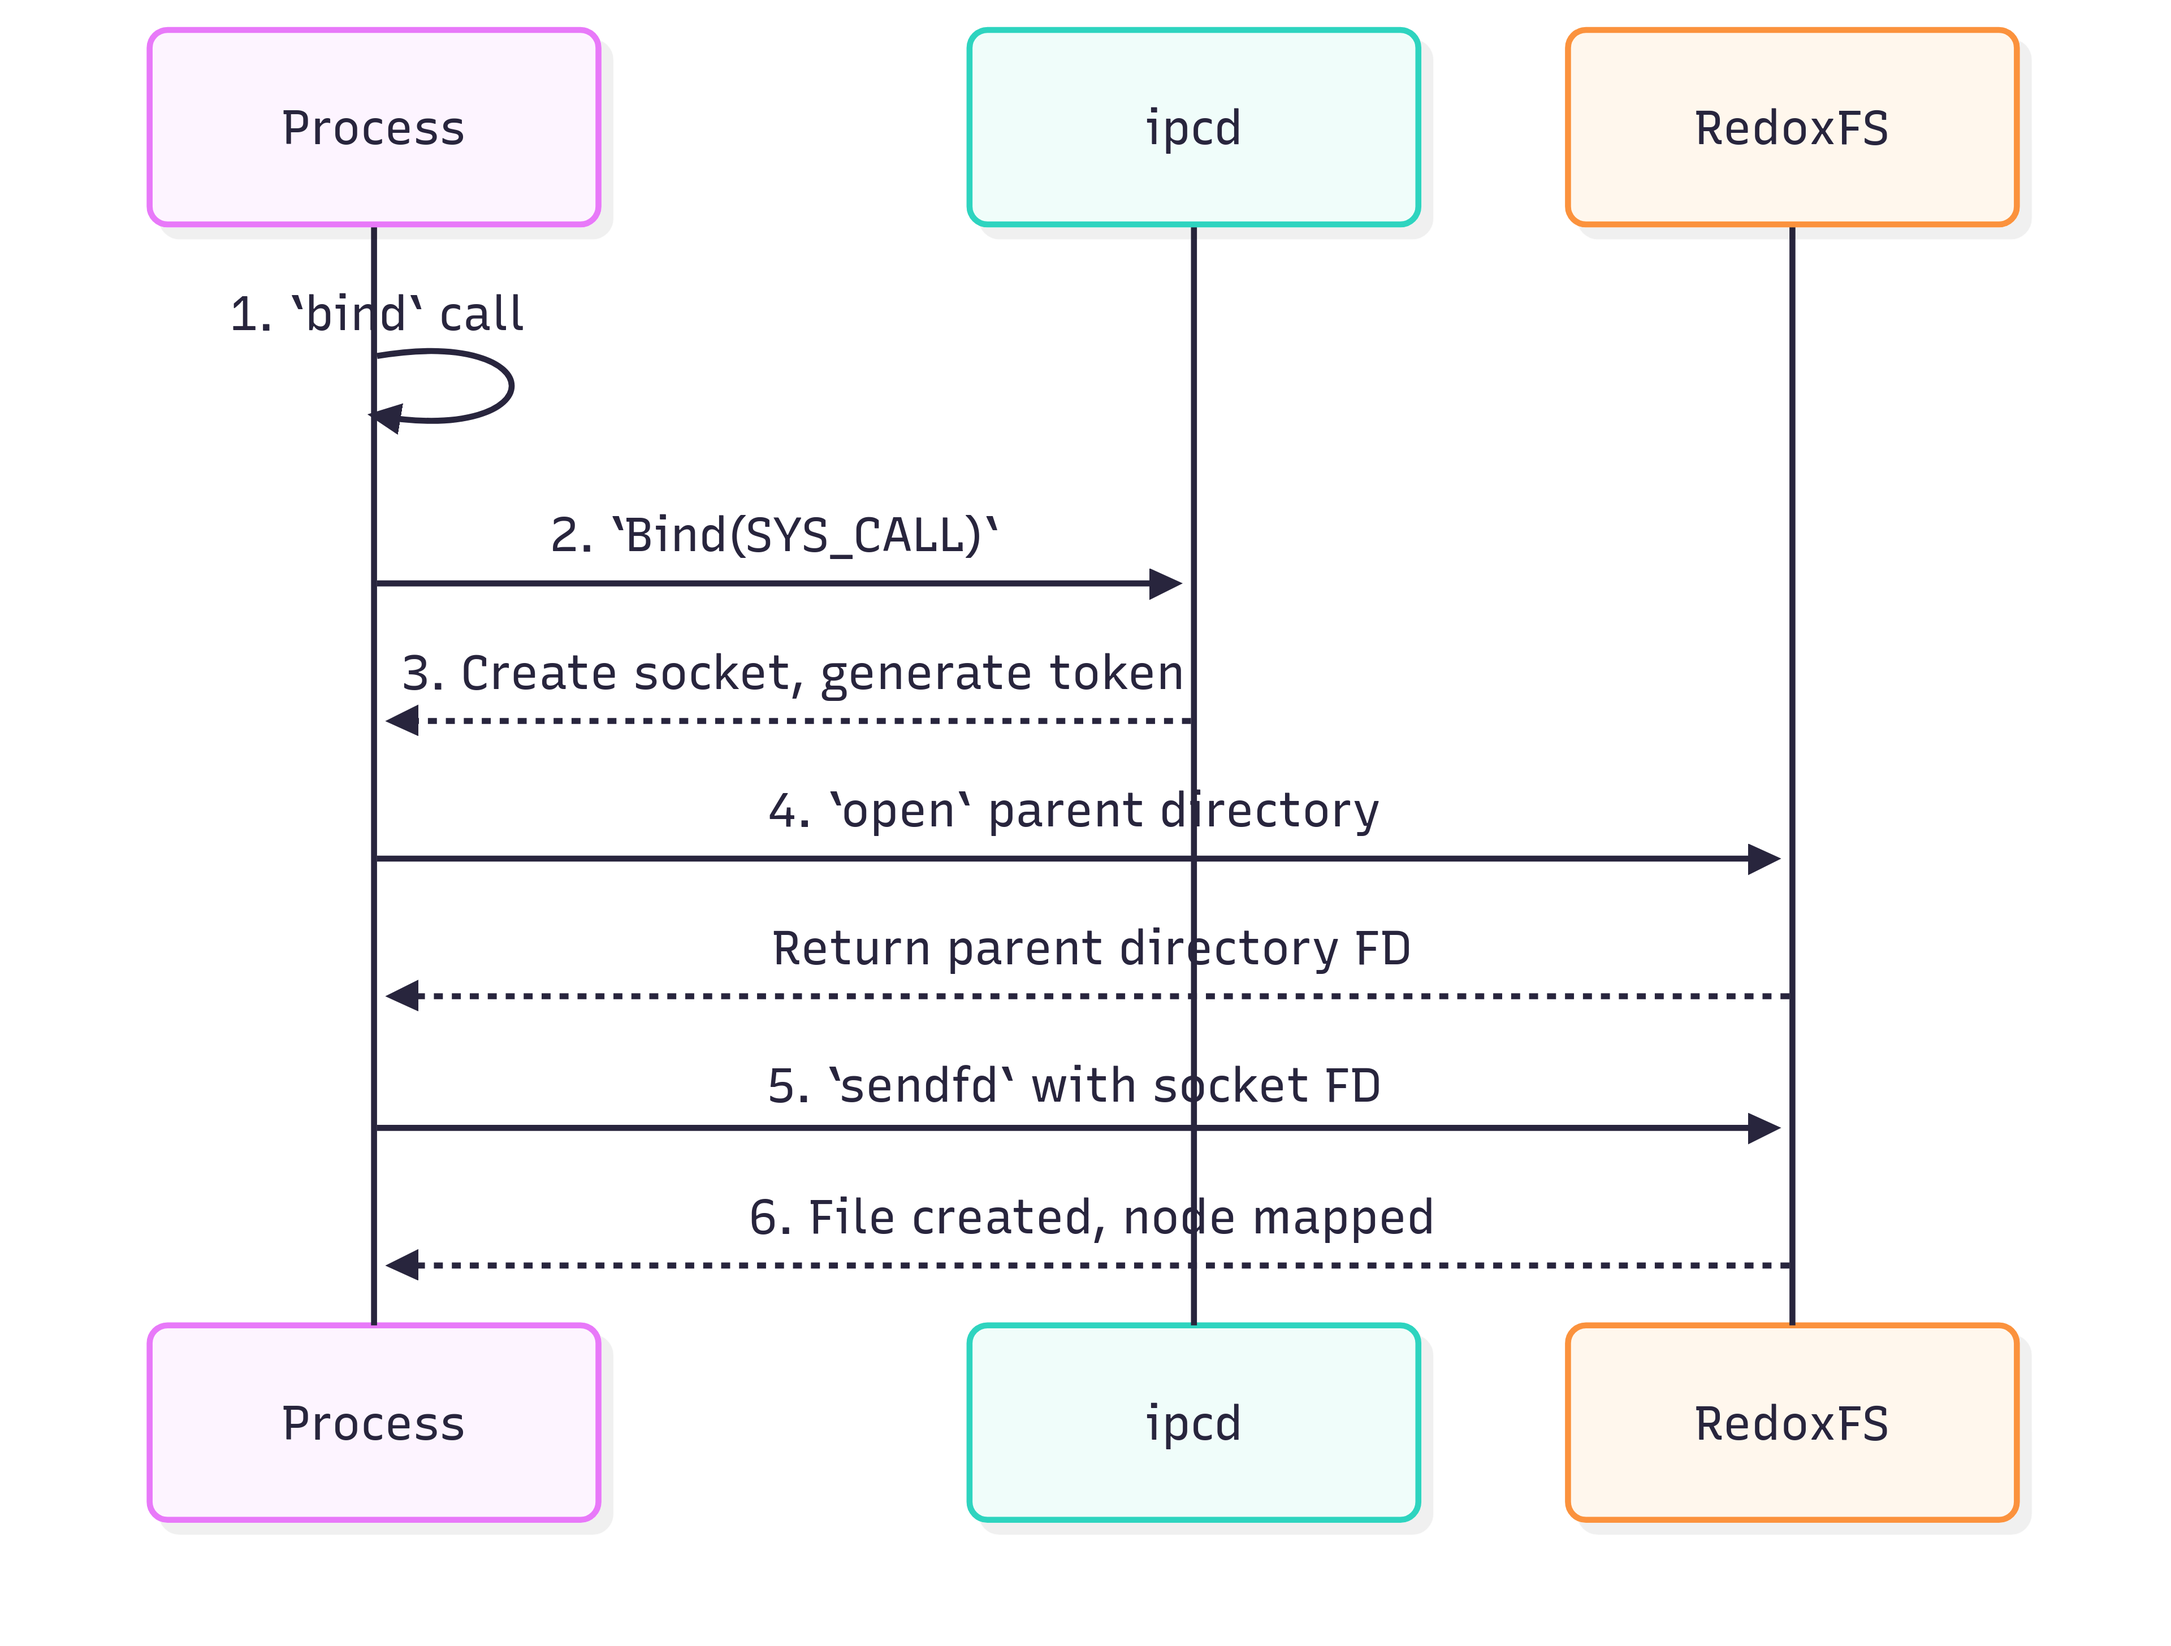
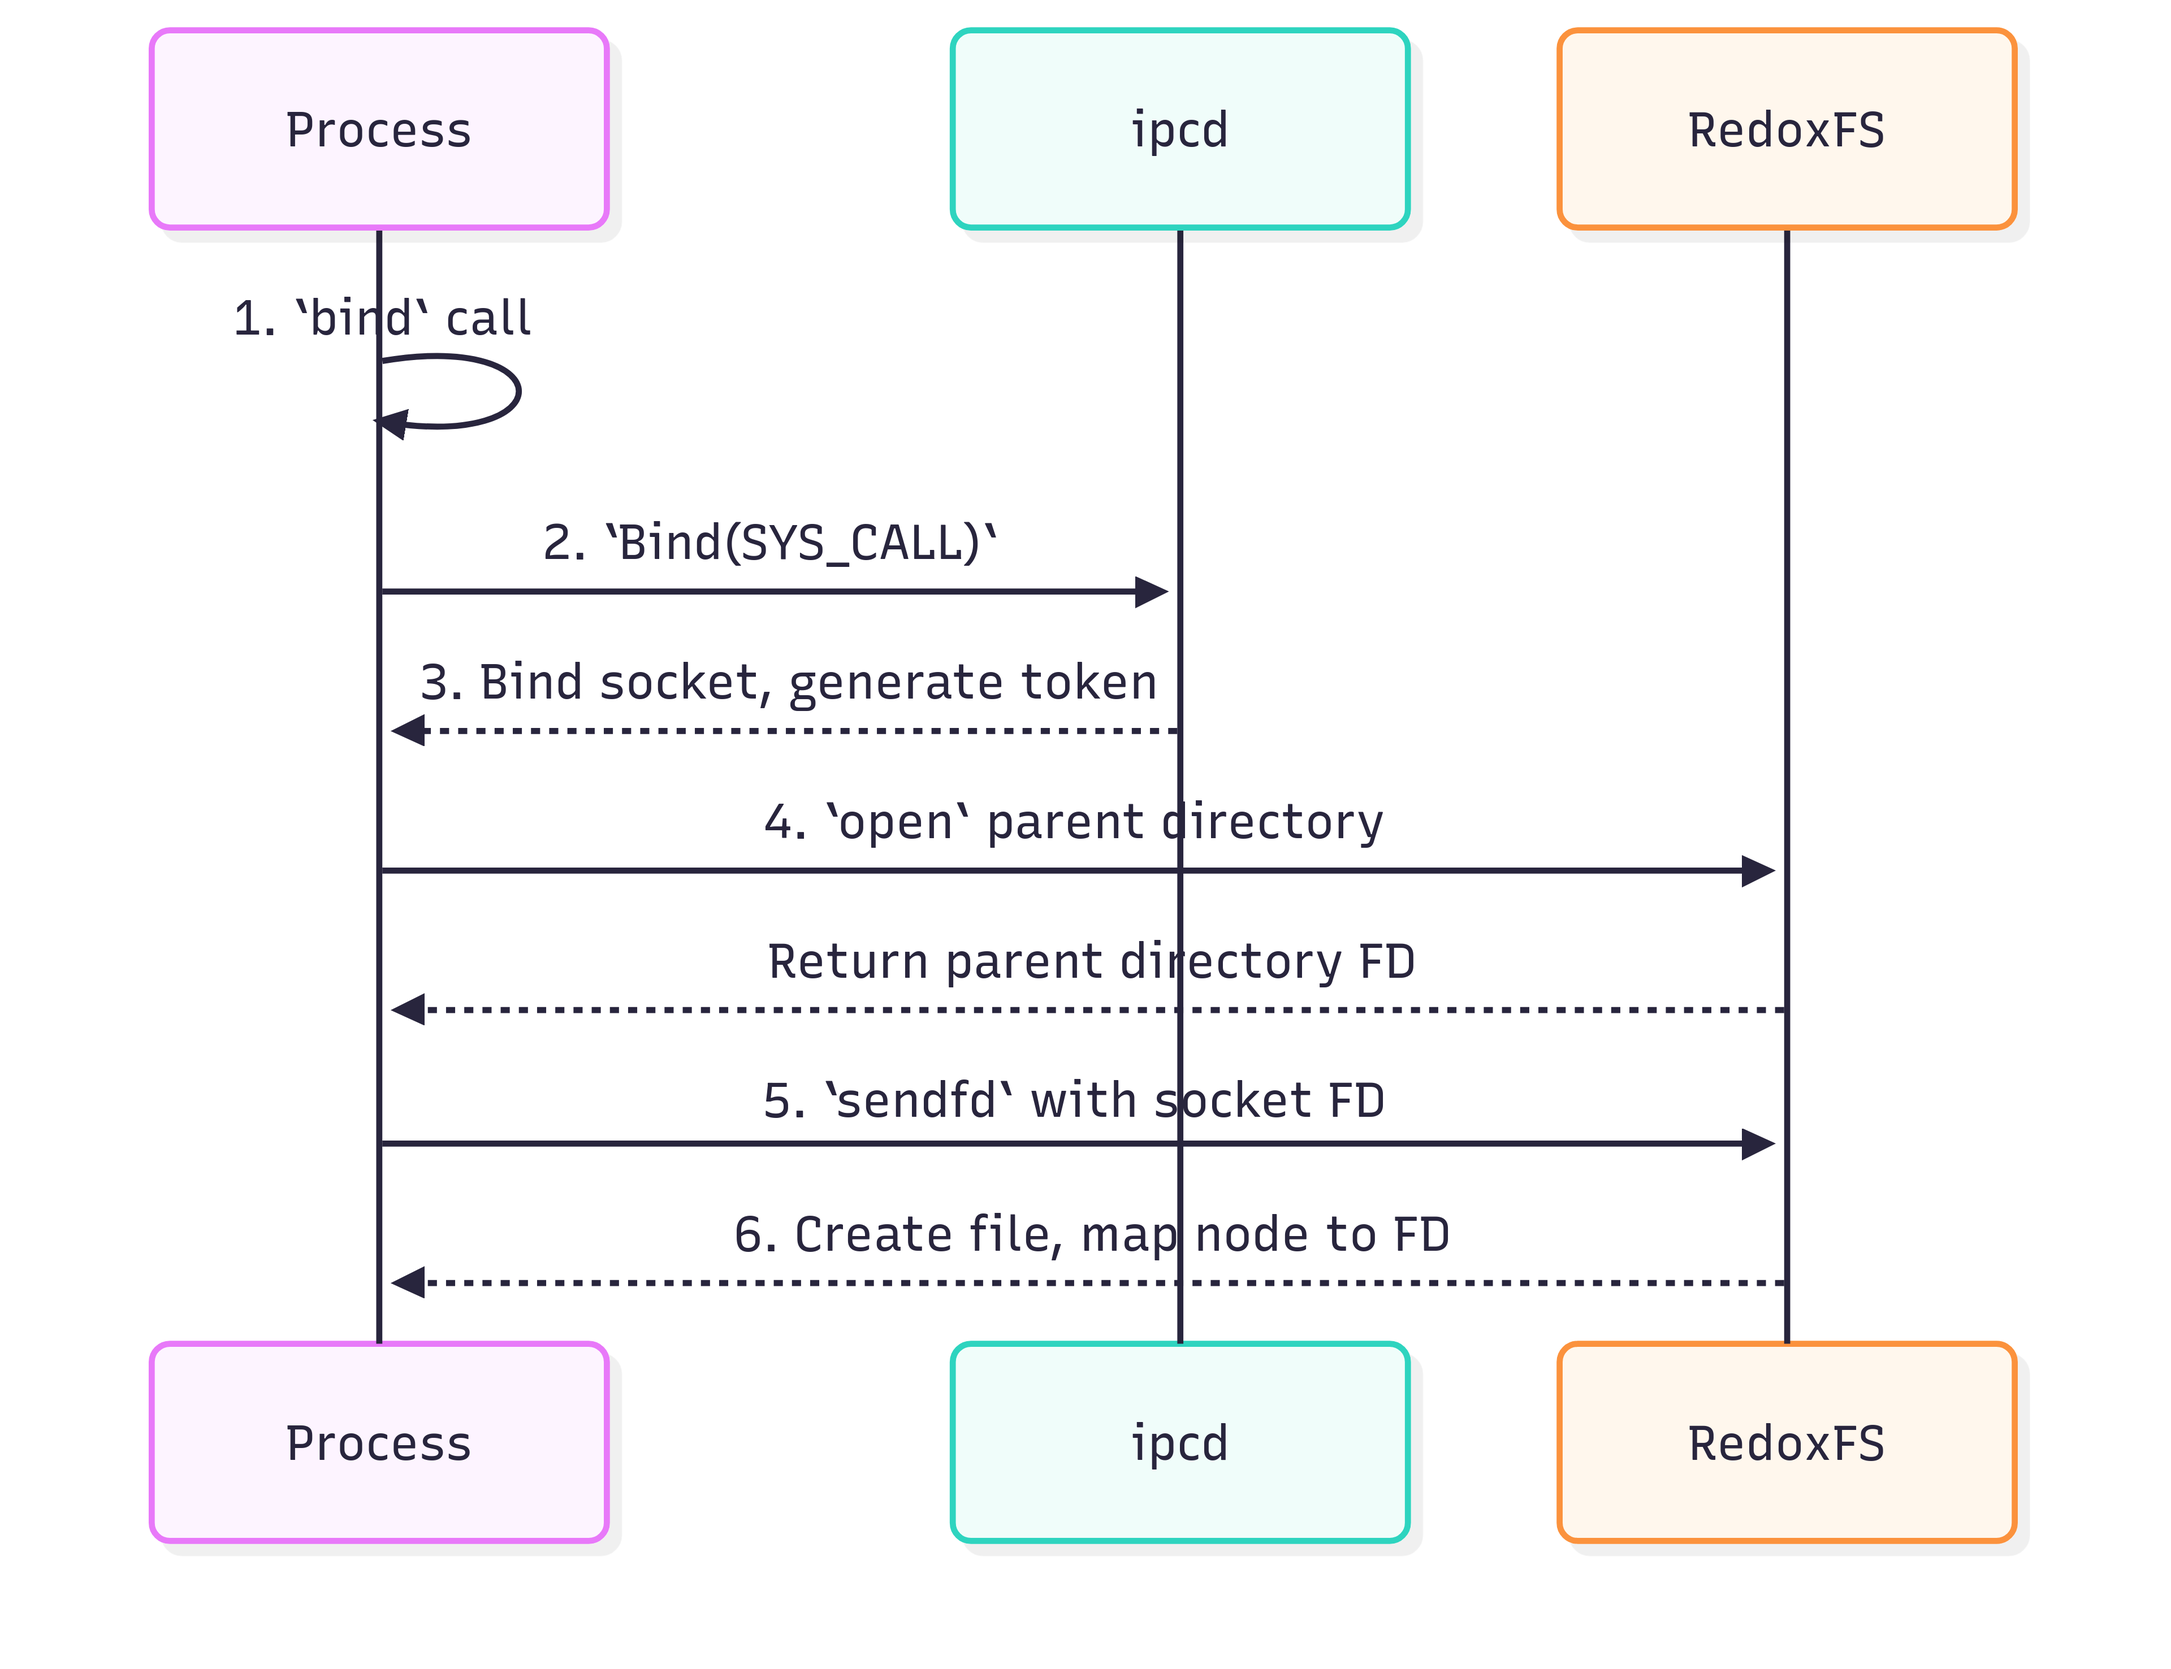
chore: Improve explanations and images.

diff --git a/content/news/rsoc-2025-fdtbl.md b/content/news/rsoc-2025-fdtbl.md
@@ -18,30 +18,27 @@ Please see my previous post, [RSoC 2025: Implementing Unix Domain Sockets](https
 Since my last post, I have made several updates to the UDS implementation in Redox OS. The most significant change is `bind` and `connect` integration with RedoxFS, the Redox file system daemon.
 In the previous implementation, UDS sockets were created and managed by ipcd, and the `bind` and `connect` operations were handled by only ipcd. However, this approach had a limitation regarding permission checks on the socket file.
 In Redox, resources are accessed by Scheme-rooted Path, and the `uds` scheme is no exception. Sockets are created in the `/scheme/uds/` space, and the `bind` operation was not able to check the permission of the socket, which could lead to security issues.
-To address this, I have integrated the `bind` and `connect` operations with RedoxFS. Now, when a process attempts to `bind` or `connect` to a UDS socket, the functions communicates not only ipcd but also RedoxFS, which performs the necessary permission checks based on the file system's access control mechanisms. This ensures that only authorized processes can create or connect to UDS sockets, enhancing the security of the IPC mechanism.
+To address this, I have integrated the `bind` and `connect` operations with RedoxFS. Now, when a process attempts to `bind` or `connect` to a UDS socket, the functions communicate not only ipcd but also RedoxFS, which performs the necessary permission checks based on the file system's access control mechanisms. This ensures that only authorized processes can create or connect to UDS sockets, enhancing the security of the IPC mechanism.
 Here is the new process for `bind` and `connect` operations, which now involve both ipcd and RedoxFS:
-The diagram below, Figure 1 and Figure 2, illustrates this new workflow. The `bind` operation now communicates with both ipcd to register the socket and RedoxFS to create the socket file with proper permissions. Similarly, the `connect` operation involves RedoxFS to verify permissions before retrieving the socket's token from ipcd.
-<!---
+### Bind Operation Flow
 1. The process calls the `bind` function with the socket file path.
 2. The `bind` call `Bind(SYS_CALL)`.
 3. ipcd receives the `Bind(SYS_CALL)`, names the socket, generates a permanent token for the socket and maps the socket with it.
 4. The `bind` opens the parent directory that the socket file will be created in, using the `open` syscall.
 5. The `bind` sends the socket FD to RedoxFS via the parent directory FD, using the `sendfd` syscall.
-6. RedoxFS receives the socket FD and creates the socket file in the directory mapped to the parent directory FD.
-7. RedoxFS maps the created socket file node to the socket FD.
-8. If the operation is failed, the `bind` call `UnBind(SYS_CALL)` to clean up the socket name in ipcd.
+6. RedoxFS receives the socket FD, creates the socket file in the specified directory, and maps the new file's node to the received socket FD.
+>If the operation is failed, the `bind` call `UnBind(SYS_CALL)` to clean up the socket name in ipcd.
 
+### Connect Operation Flow
 1. The process calls the `connect` function with the socket file path.
 2. The `connect` opens the socket file using the `open` syscall.
 3. RedoxFS receives the `open` syscall request and checks the permission of the socket file.
-4. The `connect` call `Connect(SYS_CALL)` via the socket file FD.
-5. RedoxFS receives the `Connect(SYS_CALL)` request and gets the socket FD mapped to the socket file node.
-4. RedoxFS calls the `GetToken(SYS_CALL)` to get socket's permanent token via the socket FD.
-5. ipcd receives the `GetToken(SYS_CALL)` request and returns the permanent token of the socket.
-6. RedoxFS receives the token and returns it to the `connect` call.
-7. The `connect` receives the token and call `Connect(SYS_CALL)` via the client socket FD with the token.
-8. ipcd receives the `Connect(SYS_CALL)` request and connects the client socket to the server socket mapped to the token.
--->
+4. The `connect` calls a `Connect(SYS_CALL)` to RedoxFS via the socket file FD.
+5. RedoxFS receives this Connect(SYS_CALL)request. It then callsGetToken(SYS_CALL) to retrieve the socket's permanent token from ipcd, using the socket FD.
+6. ipcd receives the `GetToken(SYS_CALL)` request and returns the permanent token of the socket.
+7. RedoxFS receives the token and returns it to the `connect` call.
+8. The `connect` receives the token and call `Connect(SYS_CALL)` via the client socket FD with the token.
+9. ipcd receives the `Connect(SYS_CALL)` request and connects the client socket to the server socket mapped to the token.
 
 <center>
     <img class="img-responsive" src="/img/rsoc-2025-fdtbl/bind_flow.png" width="50%" height="50%">
